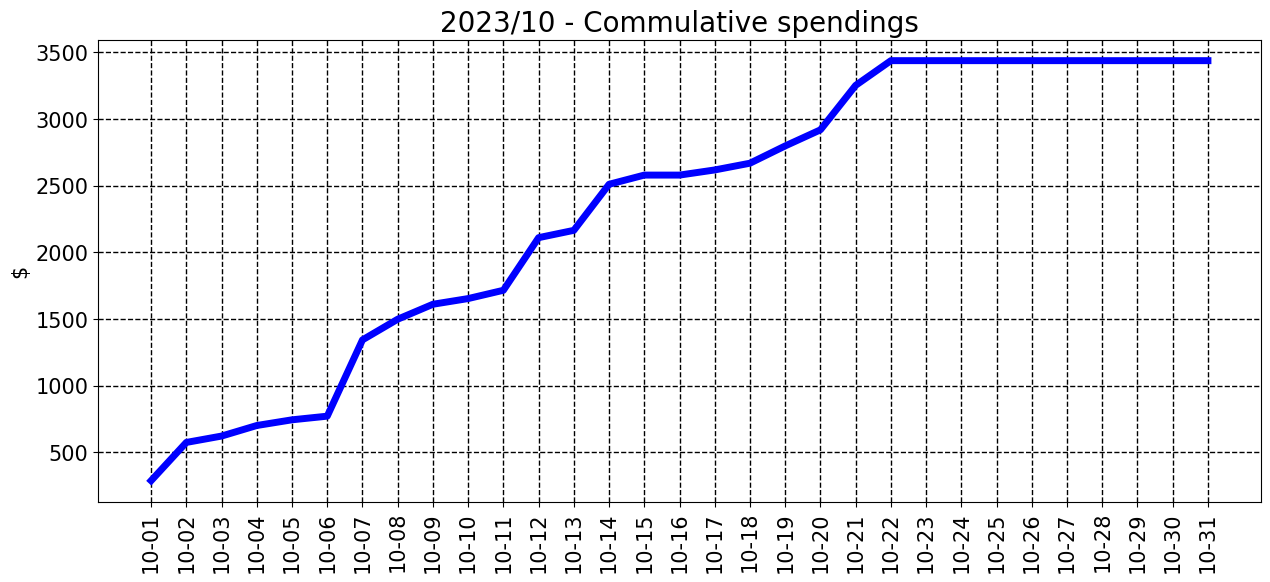
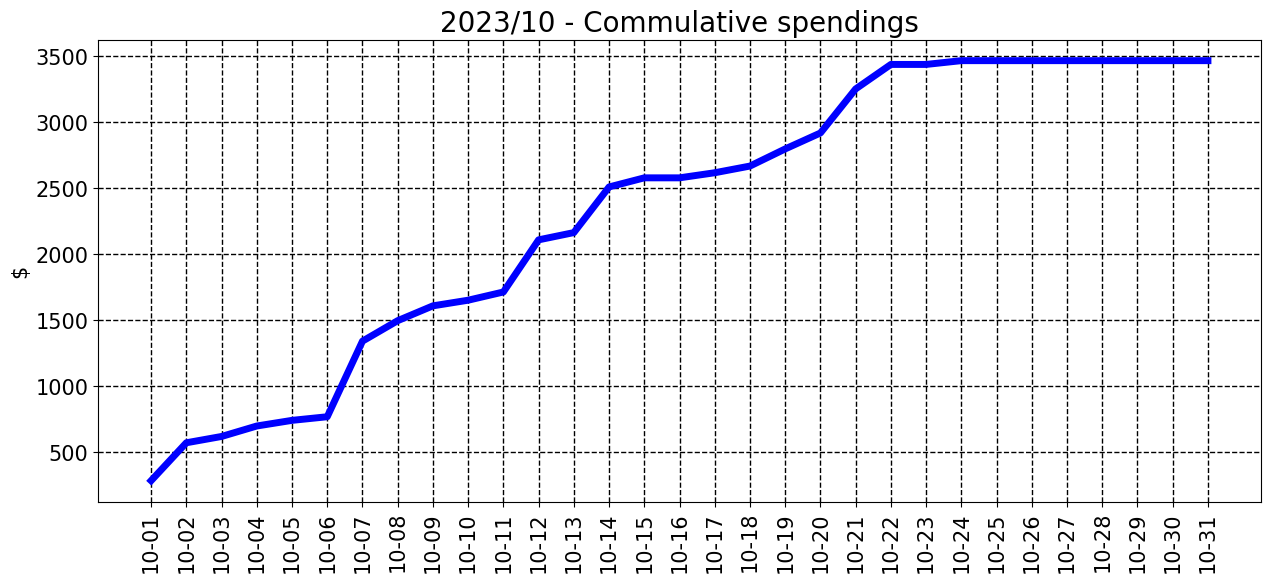
commit from python

diff --git a/README.md b/README.md
@@ -7,7 +7,7 @@ __________________________________
 <sub><sup>
 | Spent | Avg daily | End of month projection | Spent since 2023/7 |
 |---|---|---|---|
-| $3439.0  |  $143.3  | $4442.0  |  $18797.0  |
+| $3467.0  |  $144.5  | $4480.0  |  $18826.0  |
 </sub></sup>
 __________________________________
 ![graph_10_sum](graph_10_sum.png)
